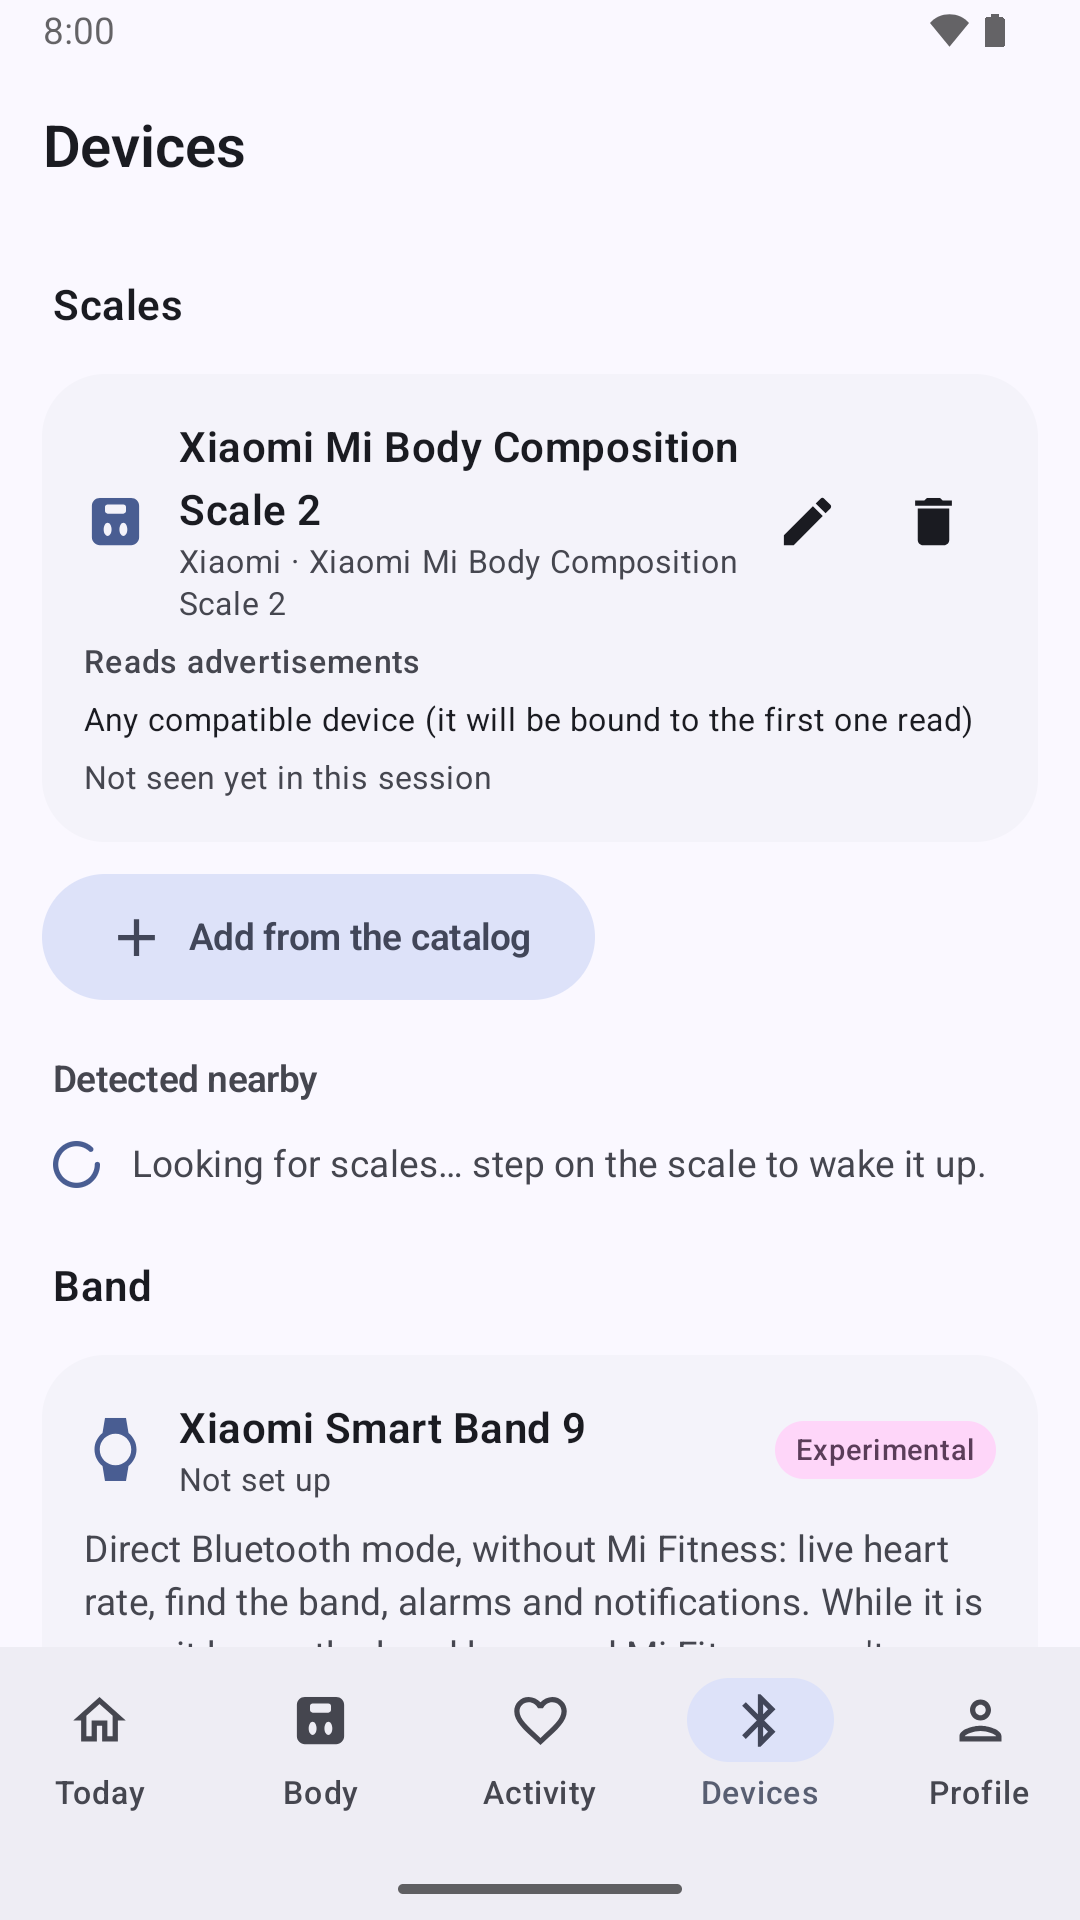
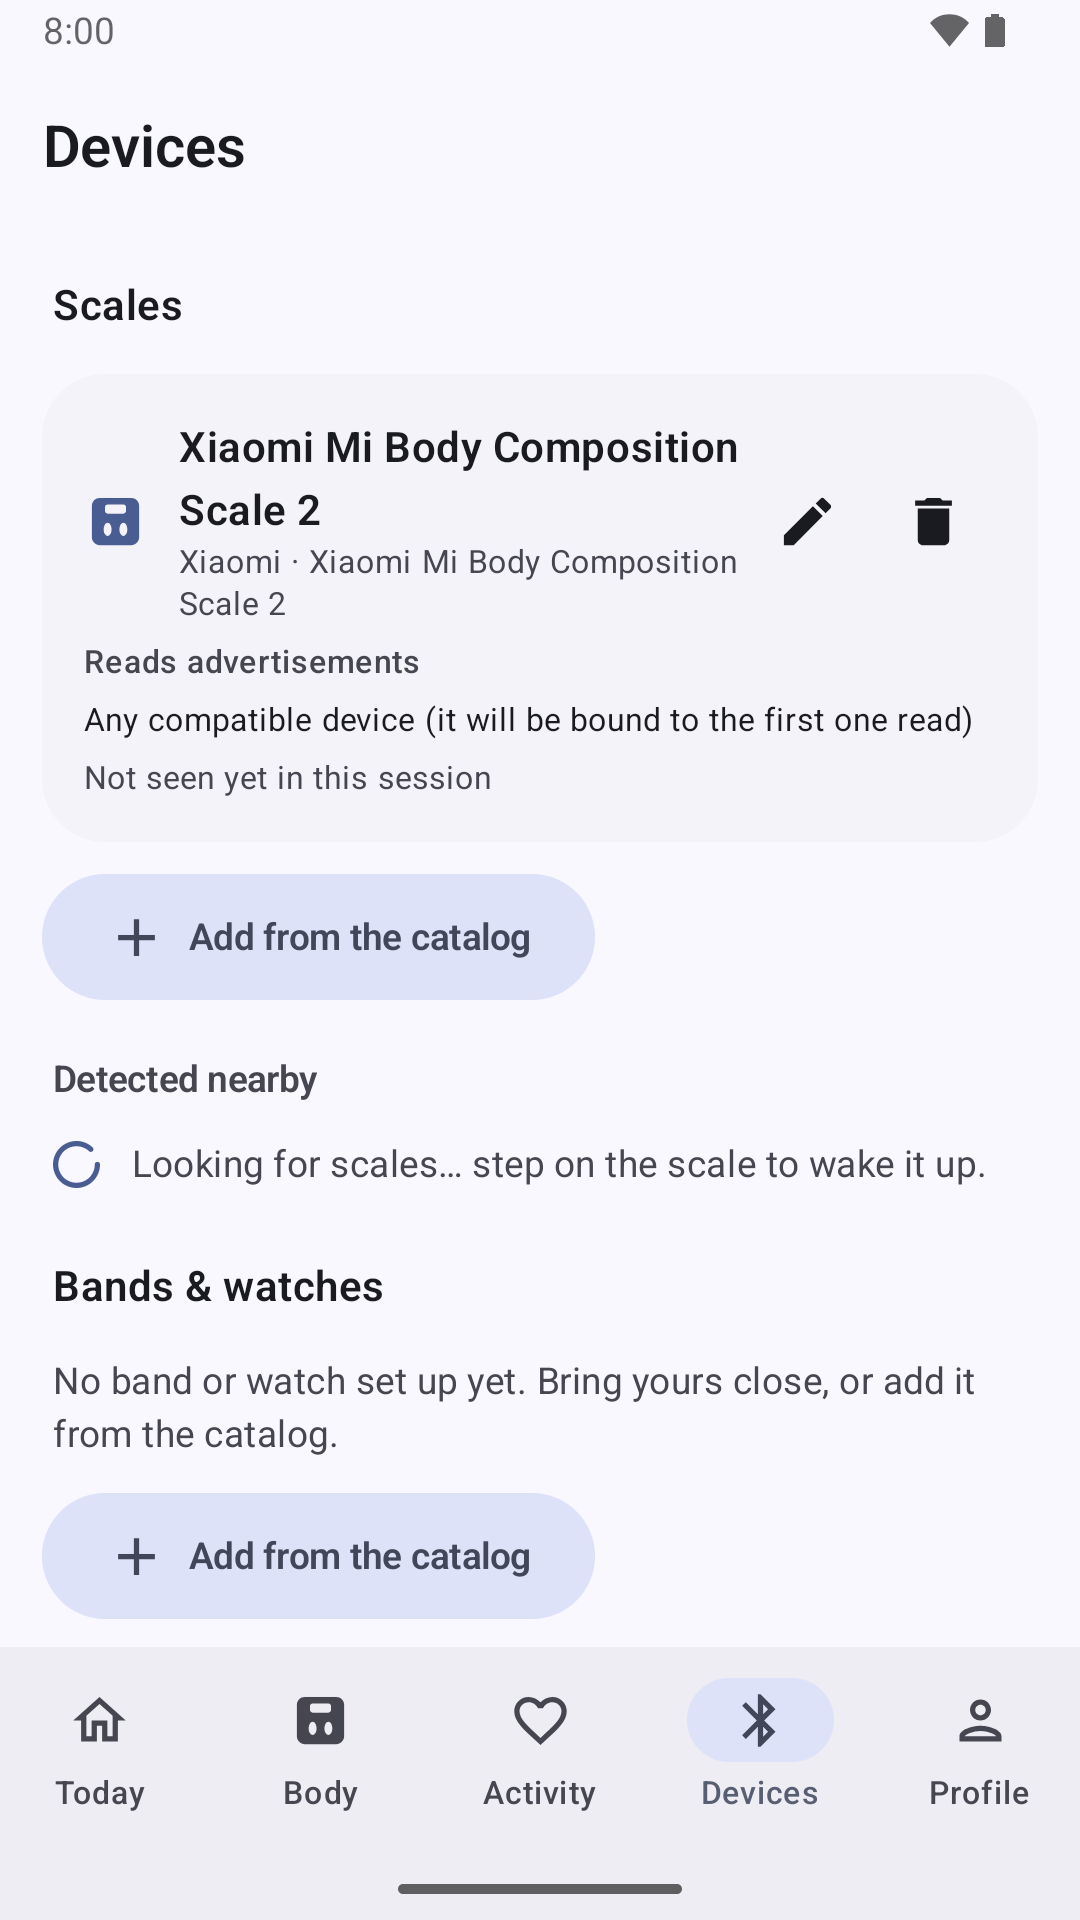
Store graphics: refresh en-US and es-ES devices screenshot

Changed region(s): [[0.0611, 0.7188, 0.7333, 0.8438], [0.7028, 0.7188, 0.9167, 0.8438], [0.1528, 0.6562, 0.3667, 0.6875]]

diff --git a/docs/store-assets/README.md b/docs/store-assets/README.md
@@ -49,9 +49,8 @@ falls back to the default-language graphics until its own are uploaded.
   figures on screen.
 * Ads: the debug build's "Simulate premium" switch was on, so no test-ad banner appears. The ad consent dialog was declined.
 * The scale and band names in the screenshots are the app's own text (model names), not logos.
-* `07-devices`: en-US and es-ES were taken before the "Bands & watches" section existed and still show the old "Band"
-  card (Xiaomi Smart Band 9, "Experimental"); the other 15 locales show the current section (no band set up yet, "Add
-  from the catalog"). Re-capture en-US / es-ES `07-devices` if the listings should match.
+* `07-devices` shows the "Bands & watches" section with no band set up yet ("Add from the catalog") in every locale;
+  en-US and es-ES were re-captured for it with the same setup (their other screenshots are unchanged).
 
 ## Icon
 
